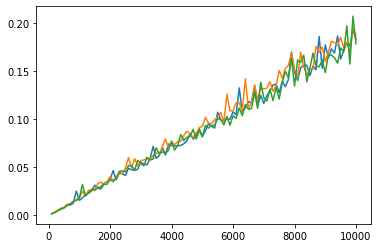
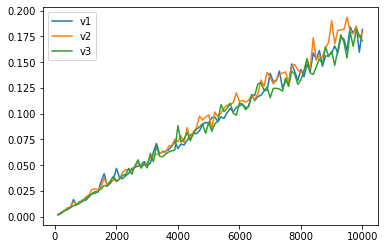
схемы lesson-1

diff --git a/siaod_lesson_4/siaod_4_1_plot.py b/siaod_lesson_4/siaod_4_1_plot.py
@@ -65,6 +65,10 @@ plt.show()
 
 print("finished")
 
+# Все три варианта имеют практически линейную зависимость от размера массива
+# При этом вариант 1 (enumerate - синий на графике) показывает более стальные результаты по скорости
+# 2 графика - размер массива до 10 тыс и 1 млн элементов
+
 """size  enumerate,  for,  while
 100,0.019517518999999997,0.021232940999999998,0.017630276
 200,0.024281146000000003,0.02653471099999999,0.02239327200000002
